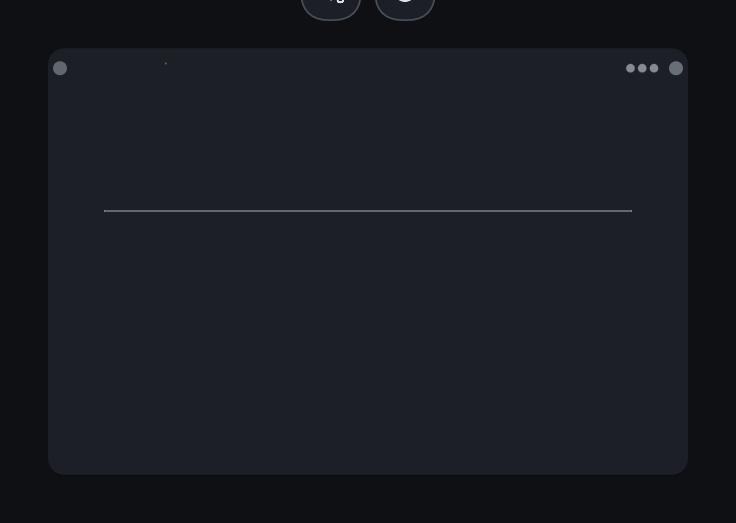
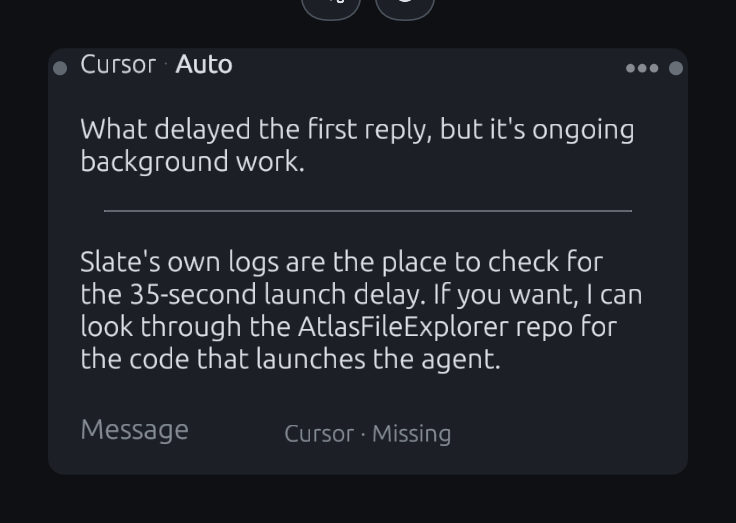
Fix chat-train review sheets that dropped the title and the context dot.
Later review contexts were sampling a galley cached against the previous font atlas, and the port shots never faded the context dot in.

diff --git a/apps/slate/src/app/tests/review/chat_polish.rs b/apps/slate/src/app/tests/review/chat_polish.rs
@@ -5,17 +5,58 @@
 use super::chat_train::{aim, card_screen, fold, prepare, settle, shoot};
 use super::*;
 
+/// Each harness is a new egui context. A galley cached from the previous
+/// context keeps font-atlas coordinates that do not exist in this one, and
+/// the title rasterizes as a speck. Drop the cache before every scenario.
+fn fresh() {
+    atlas_shell::canvas_text::clear_world_layout_cache();
+}
+
+/// The context dot is painted on a card that already has a parent, and only
+/// after its fade. A hidden parent keeps the crop to this one card.
+fn with_parent(h: &mut Harness, id: NodeId) {
+    h.app.place_agent_portal_at(Pos2::new(-4000.0, 0.0));
+    let parent = h.app.doc().scene.nodes.last().unwrap().id;
+    h.app.set_agent_program(parent, "cursor");
+    h.app.review_dismiss_picker();
+    h.app.patch_nodes(&[parent], |n| n.hidden = true);
+    h.app.patch_nodes(&[id], |n| {
+        if let NodeKind::Portal(p) = &mut n.kind {
+            p.agent.as_mut().unwrap().chat.parent = Some(parent);
+        }
+    });
+}
+
+/// Hover `at` while egui time advances, so a fade-in finishes, then crop the card.
+fn shoot_settled(h: &mut Harness, raster: &mut FrameRaster, id: NodeId, at: Pos2, state: &str) {
+    let start = h.ctx.input(|i| i.time);
+    let mut out = None;
+    for frame in 0..18 {
+        out = Some(capture_frame(h, raster, |i| {
+            i.time = Some(start + frame as f64 / 30.0);
+            i.events.push(egui::Event::PointerMoved(at));
+        }));
+    }
+    let area = card_screen(h, id).expand(24.0 * h.app.tab().cam.z.max(1.0));
+    review_shot_crop(h, raster, out.unwrap(), "CT-polish", state, area, 1);
+}
+
 pub(super) fn sheets() {
+    fresh();
     let (mut h, id, mut raster) = prepare("polish_chevron", false, false);
     aim(&mut h, id, 2.0);
     for (name, index) in [("chevron-at-two-steps", 0), ("chevron-at-one-step", 1)] {
         let at = h.app.chevron_hover_point(index);
         shoot(&mut h, &mut raster, "CT-polish", name, at, id);
     }
+    fresh();
     let (mut h, id, mut raster) = prepare("polish_model", false, false);
     aim(&mut h, id, 2.0);
-    let r = card_screen(&h, id);
-    let at = Pos2::new(r.left() + 130.0, r.top() + 24.0);
+    let at = h
+        .ctx
+        .data(|d| d.get_temp::<Rect>(egui::Id::new(("agent-model-hit", id.0))))
+        .expect("the model name has a hit rect")
+        .center();
     shoot(
         &mut h,
         &mut raster,
@@ -24,6 +65,7 @@ pub(super) fn sheets() {
         Some(at),
         id,
     );
+    fresh();
     let (mut h, id, mut raster) = prepare("polish_tail", false, false);
     h.app.board_sel.insert(id);
     assert!(h.app.agent_spawn_command(Some("[720,80]")));
@@ -42,7 +84,9 @@ pub(super) fn sheets() {
         ("port-dot-collapsed", true, false),
         ("port-dot-expanded", false, false),
     ] {
+        fresh();
         let (mut h, id, mut raster) = prepare(&format!("polish_{name}"), collapsed, partial);
+        with_parent(&mut h, id);
         settle(&mut h);
         aim(&mut h, id, 2.0);
         let node = h.app.doc().scene.node(id).unwrap().clone();
@@ -50,8 +94,9 @@ pub(super) fn sheets() {
         let at = h
             .app
             .chat_context_dot(&h.ctx, &node, screen, h.app.tab().cam.z);
-        shoot(&mut h, &mut raster, "CT-polish", name, Some(at), id);
+        shoot_settled(&mut h, &mut raster, id, at, name);
     }
+    fresh();
     let (mut h, id, mut raster) = prepare("polish_scroll", false, true);
     let long = "The courtyard keeps its plane trees along the north wall. ";
     let lines: Vec<(String, String)> = (0..8)
